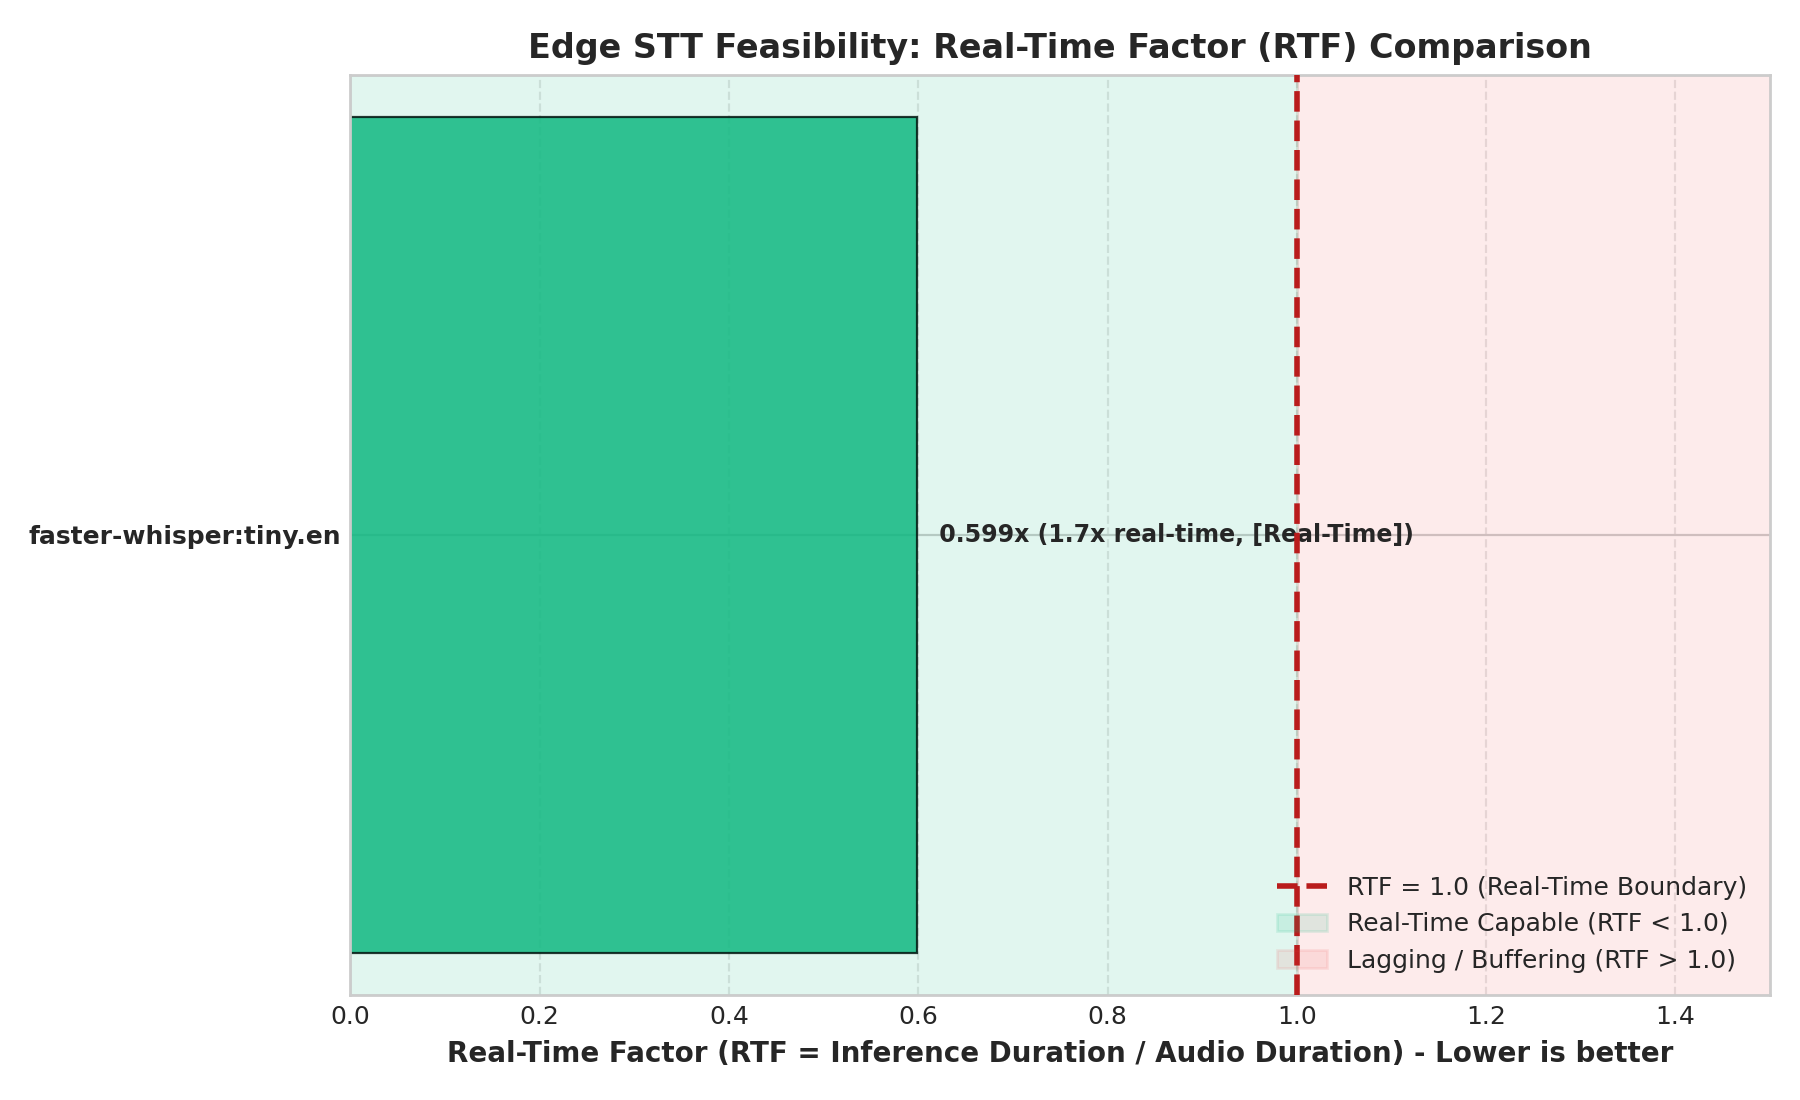
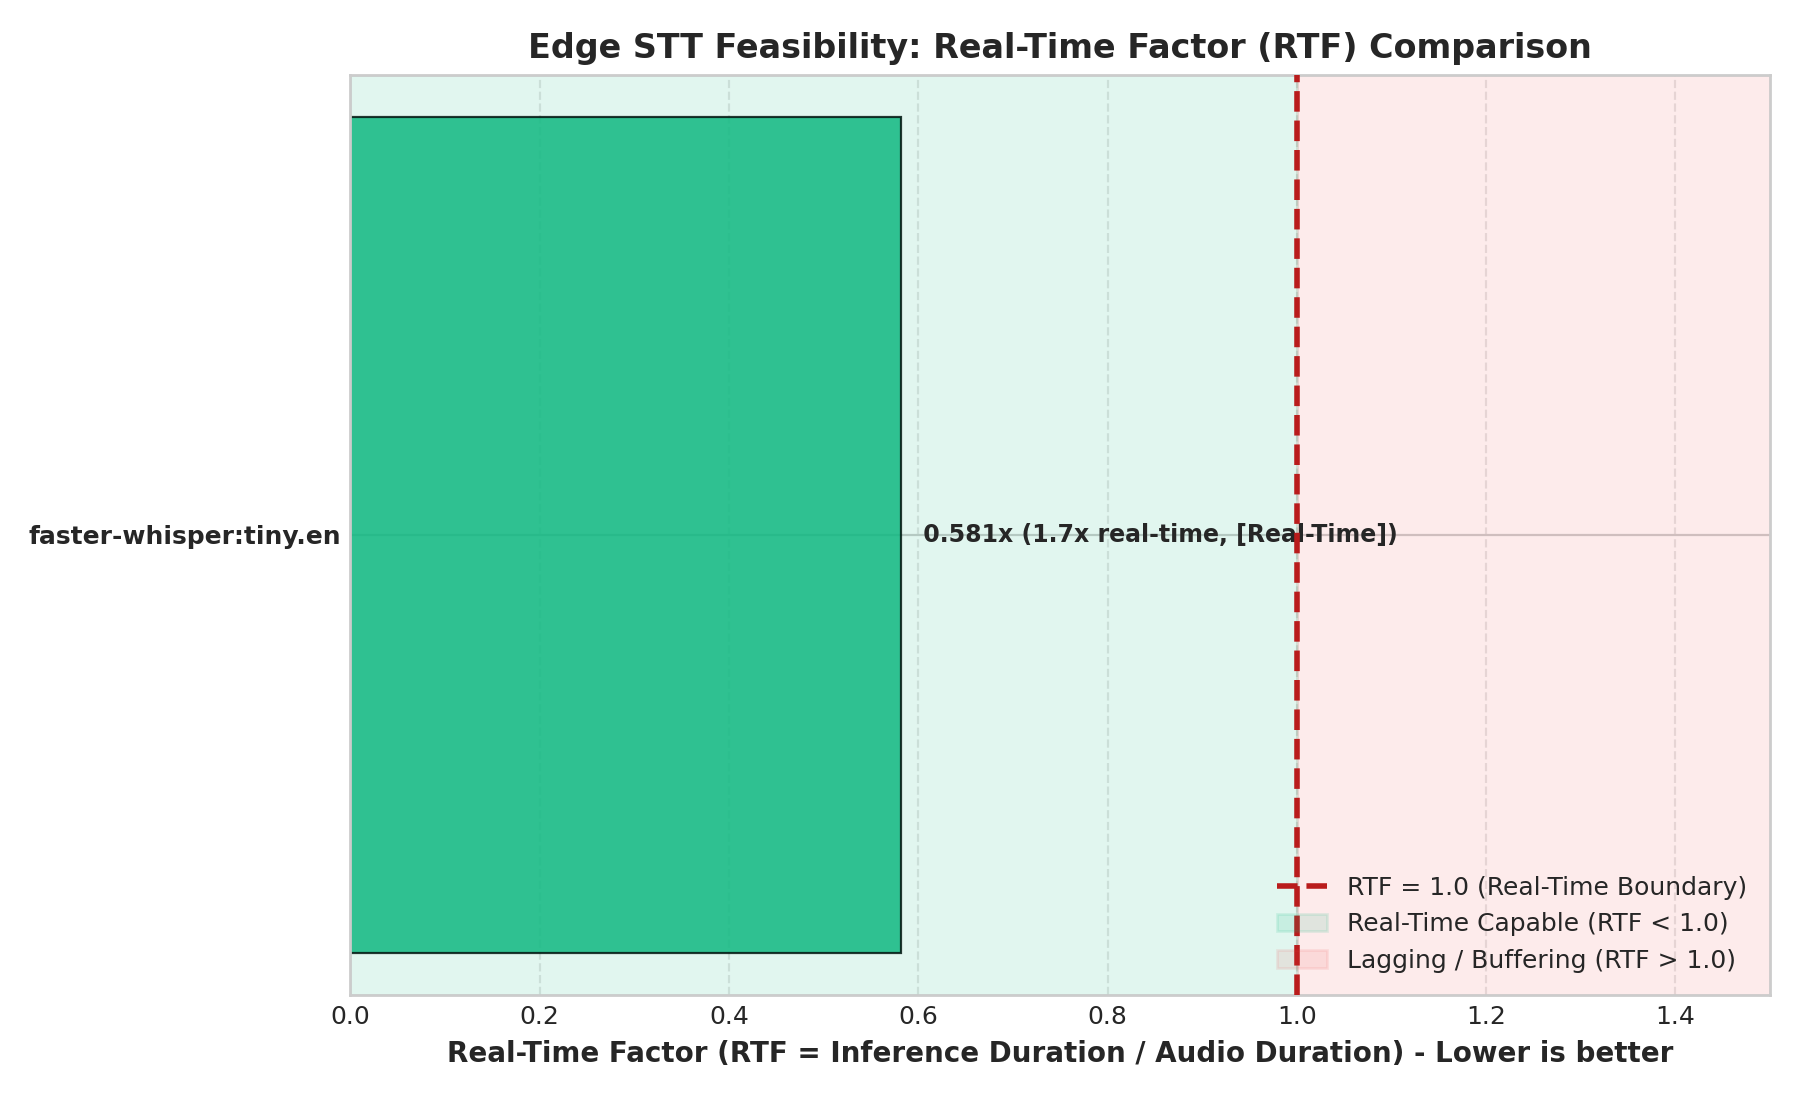
execute benchmark.py on arduino

Changed region(s): [[0.4978, 0.0927, 0.7778, 0.8655]]

diff --git a/python/results_computer/plots/evaluation_report.html b/python/results_computer/plots/evaluation_report.html
@@ -27,9 +27,9 @@
             <p style="margin:0; color:#1E40AF; font-size:14px;">
                 <strong>faster-whisper:tiny.en</strong> achieves the most balanced edge profile: 
                 <strong>32.5% WER</strong>, 
-                <strong>8099 ms latency</strong> 
-                (0.60x RTF), 
-                and <strong>328 MB peak RAM</strong>.
+                <strong>7870 ms latency</strong> 
+                (0.58x RTF), 
+                and <strong>330 MB peak RAM</strong>.
             </p>
         </div>
         
@@ -60,9 +60,9 @@
             <td style="padding:10px 14px; text-align:right; font-weight:bold; color:#DC2626;">32.5%</td>
             <td style="padding:10px 14px; text-align:right;">18.9%</td>
             <td style="padding:10px 14px; text-align:right;">78.9%</td>
-            <td style="padding:10px 14px; text-align:right; font-weight:bold;">8099 ms</td>
-            <td style="padding:10px 14px; text-align:center;">0.599x (<span style="color:#059669;font-weight:bold;">Real-Time</span>)</td>
-            <td style="padding:10px 14px; text-align:right;">328.3 MB</td>
+            <td style="padding:10px 14px; text-align:right; font-weight:bold;">7870 ms</td>
+            <td style="padding:10px 14px; text-align:center;">0.581x (<span style="color:#059669;font-weight:bold;">Real-Time</span>)</td>
+            <td style="padding:10px 14px; text-align:right;">330.4 MB</td>
             <td style="padding:10px 14px; text-align:right;">74.5 MB</td>
             <td style="padding:10px 14px; text-align:center;"><span style="color:#2563EB;font-weight:600;">Yes</span></td>
         </tr>
